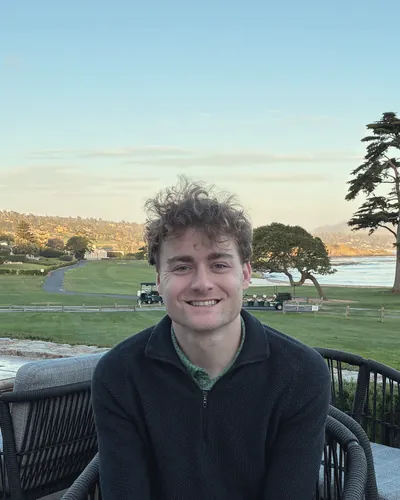
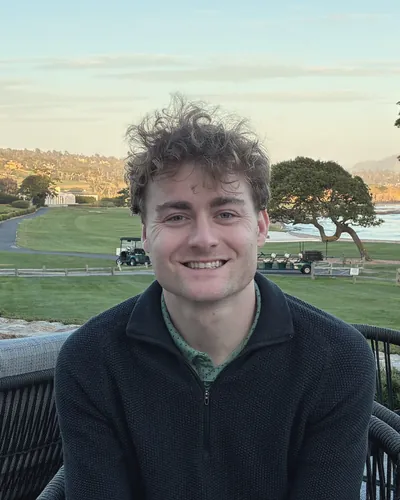
Centered top portrait; Outside work as five months in photos
- Top photo re-cropped from the original: head and shoulders, centered, larger on phones; share card updated
- Outside work: ski selfie out; December Des Moines, February Lake Tahoe, March Whistler,
  April Golden Gate, June Iowa, in date order with month and place captions
- One row on desktop in the same years | title layout as the résumé; a swipe strip on phones

Claude-Session: https://claude.ai/code/session_01SUaRXUxPcLJbSgkGS8vuph

diff --git a/site/index.html b/site/index.html
@@ -247,16 +247,63 @@
         </li>
       </ol>
 
-      <section class="outside" aria-labelledby="outside-h">
-        <h2 class="ch-when" id="outside-h">Outside work</h2>
-        <ul class="grid">
-          <li><figure><picture><source type="image/webp" srcset="/img/2026-golden-gate-sm.webp 400w, /img/2026-golden-gate-lg.webp 800w" sizes="(min-width: 860px) 240px, 46vw"><img src="/img/2026-golden-gate-lg.jpg" srcset="/img/2026-golden-gate-sm.jpg 400w, /img/2026-golden-gate-lg.jpg 800w" sizes="(min-width: 860px) 240px, 46vw" width="800" height="1000" alt="Max Smith on the Marin Headlands above the Golden Gate Bridge" loading="lazy" decoding="async"></picture><figcaption>Golden Gate</figcaption></figure></li>
-          <li><figure><picture><source type="image/webp" srcset="/img/2025-skiing-sm.webp 400w, /img/2025-skiing-lg.webp 800w" sizes="(min-width: 860px) 240px, 46vw"><img src="/img/2025-skiing-lg.jpg" srcset="/img/2025-skiing-sm.jpg 400w, /img/2025-skiing-lg.jpg 800w" sizes="(min-width: 860px) 240px, 46vw" width="800" height="1000" alt="Max Smith in ski gear under a clear sky at Lake Tahoe" loading="lazy" decoding="async"></picture><figcaption>Skiing</figcaption></figure></li>
-          <li><figure><picture><source type="image/webp" srcset="/img/lake-tahoe-sm.webp 400w, /img/lake-tahoe-lg.webp 800w" sizes="(min-width: 860px) 240px, 46vw"><img src="/img/lake-tahoe-lg.jpg" srcset="/img/lake-tahoe-sm.jpg 400w, /img/lake-tahoe-lg.jpg 800w" sizes="(min-width: 860px) 240px, 46vw" width="800" height="1000" alt="Lake Tahoe and snowy mountains from the top of a ski run" loading="lazy" decoding="async"></picture><figcaption>Lake Tahoe</figcaption></figure></li>
-          <li><figure><picture><source type="image/webp" srcset="/img/whistler-sm.webp 400w, /img/whistler-lg.webp 800w" sizes="(min-width: 860px) 240px, 46vw"><img src="/img/whistler-lg.jpg" srcset="/img/whistler-sm.jpg 400w, /img/whistler-lg.jpg 800w" sizes="(min-width: 860px) 240px, 46vw" width="800" height="1000" alt="Mist in a snowy valley below the gondola at Whistler" loading="lazy" decoding="async"></picture><figcaption>Whistler</figcaption></figure></li>
-          <li><figure><picture><source type="image/webp" srcset="/img/2025-des-moines-sm.webp 400w, /img/2025-des-moines-lg.webp 800w" sizes="(min-width: 860px) 240px, 46vw"><img src="/img/2025-des-moines-lg.jpg" srcset="/img/2025-des-moines-sm.jpg 400w, /img/2025-des-moines-lg.jpg 800w" sizes="(min-width: 860px) 240px, 46vw" width="800" height="1000" alt="Max Smith in a dark blazer against a gold art deco wall in Des Moines" loading="lazy" decoding="async"></picture><figcaption>Des Moines</figcaption></figure></li>
-          <li><figure><picture><source type="image/webp" srcset="/img/iowa-sm.webp 400w, /img/iowa-lg.webp 800w" sizes="(min-width: 860px) 240px, 46vw"><img src="/img/iowa-lg.jpg" srcset="/img/iowa-sm.jpg 400w, /img/iowa-lg.jpg 800w" sizes="(min-width: 860px) 240px, 46vw" width="800" height="1000" alt="A red barn and grain bins on a green hill in Iowa at dusk" loading="lazy" decoding="async"></picture><figcaption>Iowa</figcaption></figure></li>
-        </ul>
+      <section class="chapter outside" aria-labelledby="outside-h">
+        <h2 class="ch-title" id="outside-h">Outside work</h2>
+        <p class="ch-when"><time datetime="2025-12">2025</time>–<time datetime="2026-06">2026</time></p>
+        <div class="ch-body">
+          <ol class="strip" aria-label="Outside work, December 2025 to June 2026">
+            <li>
+              <figure>
+                <picture>
+                  <source type="image/webp" srcset="/img/2025-des-moines-sm.webp 400w, /img/2025-des-moines-lg.webp 800w" sizes="(min-width: 860px) 150px, 44vw">
+                  <img src="/img/2025-des-moines-lg.jpg" srcset="/img/2025-des-moines-sm.jpg 400w, /img/2025-des-moines-lg.jpg 800w" sizes="(min-width: 860px) 150px, 44vw"
+                       width="800" height="1000" alt="Max Smith in a dark blazer against a gold art deco wall in Des Moines, December 2025" loading="lazy" decoding="async">
+                </picture>
+                <figcaption><span class="mo">December</span>Des Moines</figcaption>
+              </figure>
+            </li>
+            <li>
+              <figure>
+                <picture>
+                  <source type="image/webp" srcset="/img/lake-tahoe-sm.webp 400w, /img/lake-tahoe-lg.webp 800w" sizes="(min-width: 860px) 150px, 44vw">
+                  <img src="/img/lake-tahoe-lg.jpg" srcset="/img/lake-tahoe-sm.jpg 400w, /img/lake-tahoe-lg.jpg 800w" sizes="(min-width: 860px) 150px, 44vw"
+                       width="800" height="1000" alt="Lake Tahoe and snowy mountains from the top of a ski run, February 2026" loading="lazy" decoding="async">
+                </picture>
+                <figcaption><span class="mo">February</span>Lake Tahoe</figcaption>
+              </figure>
+            </li>
+            <li>
+              <figure>
+                <picture>
+                  <source type="image/webp" srcset="/img/whistler-sm.webp 400w, /img/whistler-lg.webp 800w" sizes="(min-width: 860px) 150px, 44vw">
+                  <img src="/img/whistler-lg.jpg" srcset="/img/whistler-sm.jpg 400w, /img/whistler-lg.jpg 800w" sizes="(min-width: 860px) 150px, 44vw"
+                       width="800" height="1000" alt="Mist in a snowy valley below the gondola at Whistler, March 2026" loading="lazy" decoding="async">
+                </picture>
+                <figcaption><span class="mo">March</span>Whistler</figcaption>
+              </figure>
+            </li>
+            <li>
+              <figure>
+                <picture>
+                  <source type="image/webp" srcset="/img/2026-golden-gate-sm.webp 400w, /img/2026-golden-gate-lg.webp 800w" sizes="(min-width: 860px) 150px, 44vw">
+                  <img src="/img/2026-golden-gate-lg.jpg" srcset="/img/2026-golden-gate-sm.jpg 400w, /img/2026-golden-gate-lg.jpg 800w" sizes="(min-width: 860px) 150px, 44vw"
+                       width="800" height="1000" alt="Max Smith on the Marin Headlands above the Golden Gate Bridge, April 2026" loading="lazy" decoding="async">
+                </picture>
+                <figcaption><span class="mo">April</span>Golden Gate</figcaption>
+              </figure>
+            </li>
+            <li>
+              <figure>
+                <picture>
+                  <source type="image/webp" srcset="/img/iowa-sm.webp 400w, /img/iowa-lg.webp 800w" sizes="(min-width: 860px) 150px, 44vw">
+                  <img src="/img/iowa-lg.jpg" srcset="/img/iowa-sm.jpg 400w, /img/iowa-lg.jpg 800w" sizes="(min-width: 860px) 150px, 44vw"
+                       width="800" height="1000" alt="A red barn and grain bins on a green hill in Iowa at dusk, June 2026" loading="lazy" decoding="async">
+                </picture>
+                <figcaption><span class="mo">June</span>Iowa</figcaption>
+              </figure>
+            </li>
+          </ol>
+        </div>
       </section>
     </main>
 

diff --git a/site/styles.css b/site/styles.css
@@ -141,7 +141,7 @@ main:focus { outline: none; }
 
 /* photos */
 picture, picture img { display: block; }
-.ch-photo img, .grid img {
+.ch-photo img, .strip img {
   width: 100%; height: auto; aspect-ratio: 4 / 5; object-fit: cover;
   border-radius: 14px; background: var(--rule);
 }
@@ -153,10 +153,19 @@ figcaption { margin-top: .5rem; font-size: .8125rem; line-height: 1.4; color: va
 .lead { font-size: clamp(1.375rem, 1.1rem + 1.1vw, 1.75rem); line-height: 1.3; letter-spacing: -.02em; font-weight: 440; text-wrap: balance; }
 .sub { margin-top: .9rem; color: var(--gray); text-wrap: pretty; }
 
-/* outside work */
-.outside { padding-block: 2.25rem; border-top: 1px solid var(--rule); }
-.outside .ch-when { grid-area: auto; display: block; margin-bottom: 1.25rem; color: var(--ink); font-size: 1.25rem; font-weight: 560; letter-spacing: -.015em; }
-.grid { display: grid; grid-template-columns: repeat(2, minmax(0, 1fr)); gap: 1.25rem .75rem; }
+/* outside work: five months, in order. A swipe on phones, one row on desktop */
+.outside { grid-template-areas: "title when" "body body"; }
+.outside .ch-body { max-width: none; }
+.strip {
+  display: flex; gap: 12px; margin-top: 1.25rem;
+  margin-inline: calc(-1 * var(--gutter)); padding-inline: var(--gutter); scroll-padding-inline: var(--gutter);
+  overflow-x: auto; scroll-snap-type: x mandatory; overscroll-behavior-x: contain; scrollbar-width: none;
+}
+.strip::-webkit-scrollbar { display: none; }
+.strip li { flex: 0 0 44%; scroll-snap-align: start; }
+.strip img { border-radius: 12px; }
+.strip figcaption { line-height: 1.35; }
+.strip .mo { display: block; color: var(--ink); }
 
 /* ---------- desktop: when | words | photo ---------- */
 
@@ -172,11 +181,8 @@ figcaption { margin-top: .5rem; font-size: .8125rem; line-height: 1.4; color: va
   .ch-body { padding-top: .35rem; }
   .intro { grid-template-areas: "body body photo"; padding-top: clamp(40px, 7vh, 72px); align-items: start; }
   .intro .ch-body { max-width: 36rem; padding-top: 0; margin-top: -.4rem; }
-  .outside {
-    display: grid; grid-template-columns: 7.5rem minmax(0, 1fr); column-gap: 2.5rem; padding-block: 3rem; align-items: start;
-  }
-  .outside .ch-when { margin-bottom: 0; padding-top: .2rem; color: var(--gray); font-size: .9375rem; font-weight: 400; letter-spacing: 0; }
-  .grid { grid-template-columns: repeat(3, minmax(0, 1fr)); gap: 1.75rem 1.5rem; }
+  .outside { grid-template-areas: "when title title" "when body body"; }
+  .strip { display: grid; grid-template-columns: repeat(5, minmax(0, 1fr)); gap: 1rem; margin-inline: 0; padding-inline: 0; overflow: visible; }
 }
 
 /* ---------- footer ---------- */

diff --git a/README.md b/README.md
@@ -9,7 +9,7 @@ Personal site of Max Smith: a résumé told as a life story. One static page, on
 | `site/index.html` | The page, including meta tags and `Person` / `ProfilePage` structured data |
 | `site/styles.css` | All styles. Light and dark follow the system; motion respects reduced-motion |
 | `site/main.js` | Email link assembly and footer year |
-| `site/img/` | Twelve graded photos (`*-sm`/`*-lg`, WebP + JPEG) and the social card `og.jpg` |
+| `site/img/` | Ten graded photos (`*-sm`/`*-lg`, WebP + JPEG) and the social card `og.jpg` |
 | `site/llms.txt`, `robots.txt`, `sitemap.xml` | What crawlers and AI assistants read |
 | `scripts/check.mjs` | Pre-publish check: guardrails plus search basics. Exits 1 on any failure |
 | `scripts/guardrails.json` | Words and patterns that must never appear on the public site |
